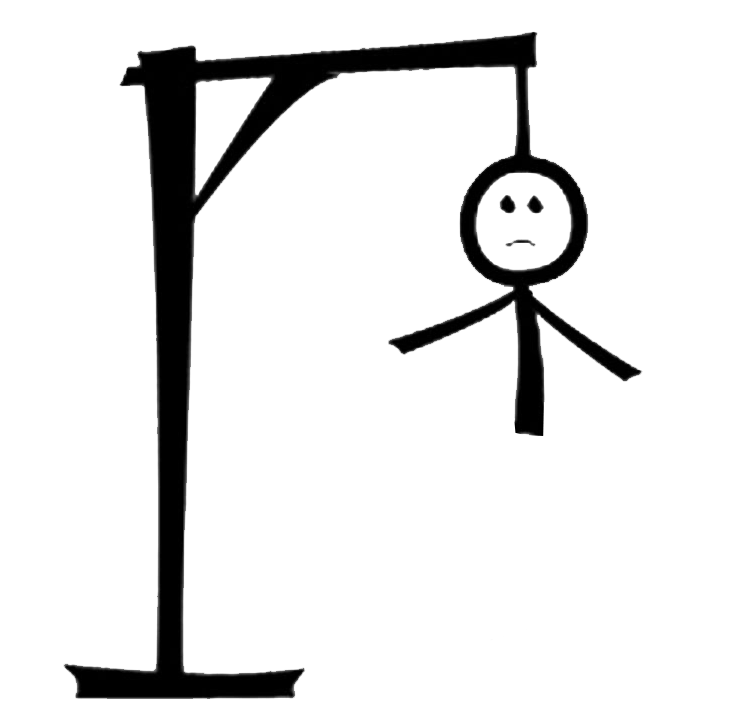
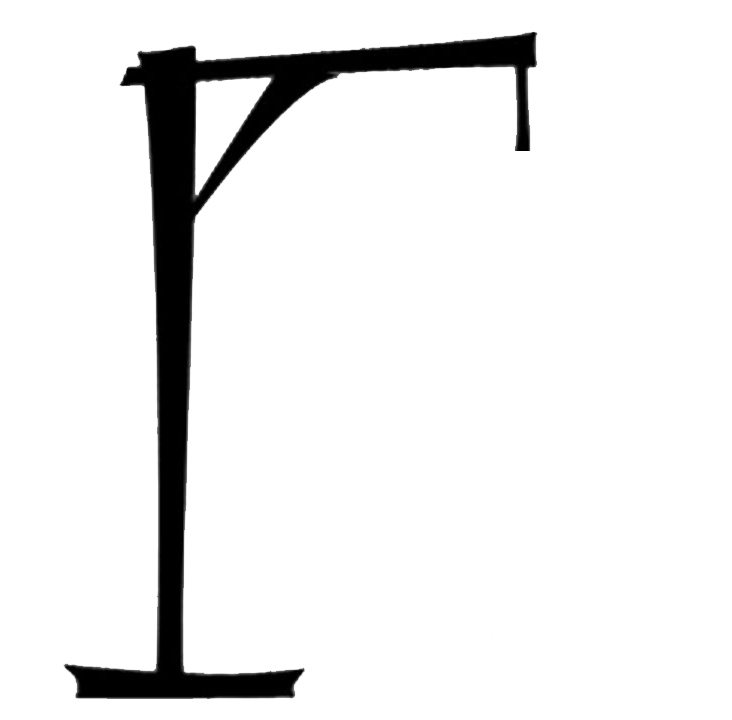
Acabado Ahorcado

Changed region(s): [[0.5109, 0.2139, 0.8716, 0.6111]]

diff --git a/Ahorcado/ahorcado.js b/Ahorcado/ahorcado.js
@@ -1,19 +1,23 @@
+//Variable que ejecuta la función contador cada 1 seg.
 var cont = setInterval(contador, 1000);
+//Variables de la aplicación
 let num = 60;
-let posibilidades = ["COCHE", "MOTO", "GUAGUA", "BICICLETA"];
+let posibilidades = ["COCHE", "MOTO", "GUAGUA", "BICICLETA", "MOTOCICLETA", "PATINETA"];
 
 let errores = 5;
-let aciertos;
+let aciertos = 0;
 
-let random = parseInt(Math.random()*3);
+let random = parseInt(Math.random()*6);
 let auxVar = posibilidades[random];
 
+//Impresión en consola para facilitar el acierto o fallo de las distintas palabras (para pruebas).
 console.log(auxVar);
 
+//Función que implementa un contador cada.
 function contador(){
-    if(num == 500){   
+    if(num == 0){   
         alert("Se ha agotado el tiempo...");    
-        location.reload();
+        recargar();
     } else {
         document.getElementById("contador").innerHTML = num;
         if (num <= 20){
@@ -34,11 +38,15 @@ function resolver(){
     for (let index = 0; index < auxVar.length; index++) { 
         document.getElementById("espacios").innerHTML = posibilidades[random];
     }
+    alert("No seas tramposo he intentalo por ti mismo...");
+    recargar();
 }
 //Funcion que implementa el método para comprobar si el caracter introducido es válido
 function probar(){
 
+    //Variable que recibira el valor del input del html
     let valorInput = document.getElementById("texto").value.toUpperCase();
+    //Variable booleana que indicará cuando no se encuentre caracter.
     let booleana = false;
 
     for (let index = 0; index < auxVar.length; index++) {
@@ -46,19 +54,38 @@ function probar(){
             booleana = true;
             aciertos++;
             document.getElementById("span"+index).innerHTML = valorInput;
-            if((document.getElementById("span"+index)).value != "_"){
-                alert("Felicidades a ganado el juego.");
-                clearInterval(cont);
-            }
+            console.log(aciertos);
         } 
     }
+    //Comprobación para ver número de errores permitidos
     if (!booleana) {
         errores--;
         alert("Cuidado te quedan "+errores+" errores.");
+        //Switch para ir modificando la imagen dependiendo de los errores.
+        switch (errores) {
+            case 4:
+                document.getElementById("img").src="ahorcadoBase.png";
+                break;
+            case 3:
+                document.getElementById("img").src="ahorcado.png";
+                break;
+            case 2:
+                document.getElementById("img").src="ahorcado2.png";
+                break;
+            case 1:
+                document.getElementById("img").src="ahorcado3.png";
+                break;
+        } 
+        //Comprobación de que el juego ha finalizado.
         if (errores == 0){
+            document.getElementById("img").src="ahorcado4.png";
             alert("Lo sentimos has perdido el juego.");
             clearInterval(cont);
         }
+        //Si el número de aciertos es igual a la longitud 
+    } else if (aciertos == auxVar.length){
+        alert("Felicidades ha ganado el juego.");
+        clearInterval(cont);
     }
 
 }

diff --git a/Ahorcado/index.html b/Ahorcado/index.html
@@ -11,10 +11,10 @@
     <h1 id="contador"></h1>
     <div>
         <div class="ahorcado">
-            <img src="ahorcado.png" alt="ahorcado" width="300px">
+            <img  width="300px" id="img">
             <h1 id="espacios"></h1>
         </div>
-            <input type="text" name="texto" id="texto" class="button-55" autocomplete="off"><br>
+            <input type="text" name="texto" id="texto" class="button-55" autocomplete="off" ><br>
             <button class="button-55" onclick="probar()">Probar</button>
         <div class="botones">
             <input type="reset" value="Reiniciar" class="button-55" onclick="recargar()">   

diff --git a/Ahorcado/style.css b/Ahorcado/style.css
@@ -7,7 +7,7 @@ div{
     flex-direction: column;
     justify-content: space-between;
     align-items: center;
-    margin: 3%;
+    margin: 2%;
 }
 .ahorcado{
     display: flex;
